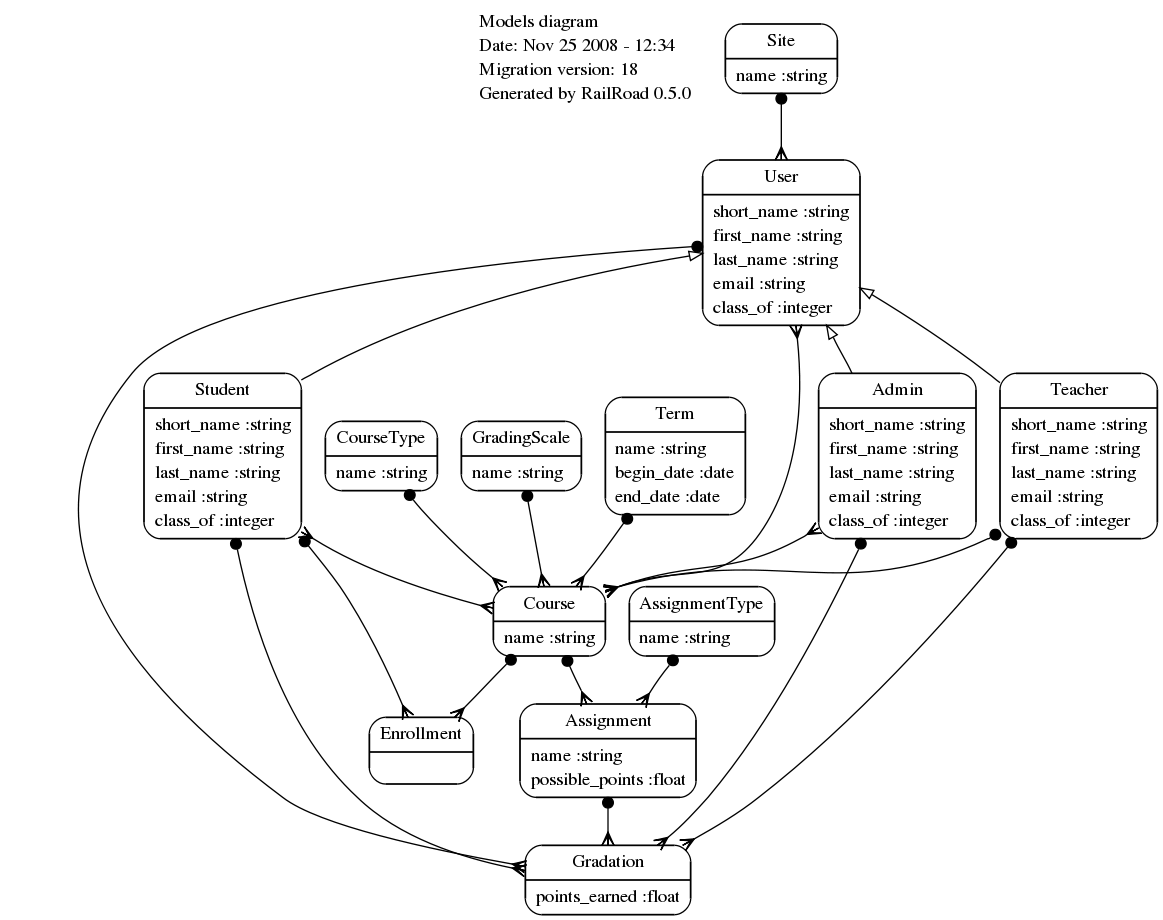
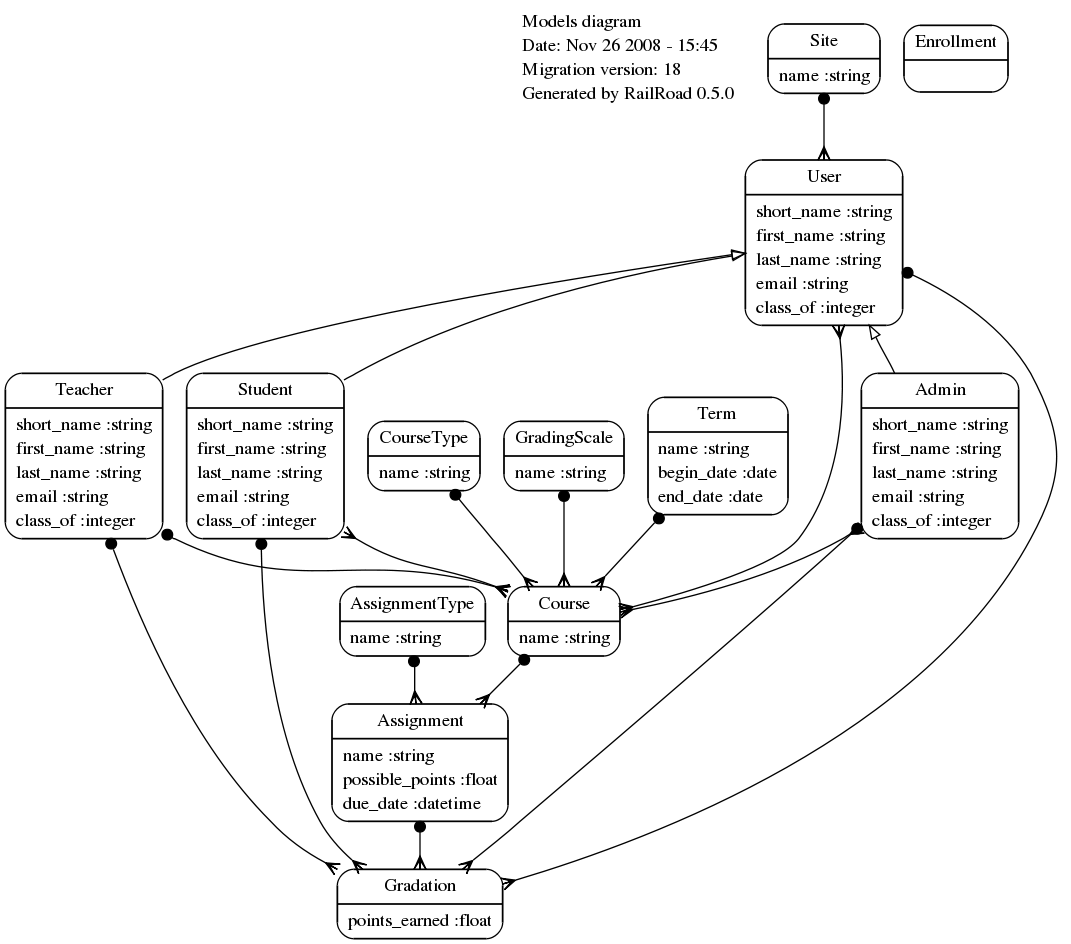
assignments mostly work

diff --git a/app/controllers/enrollments_controller.rb b/app/controllers/enrollments_controller.rb
@@ -1,30 +1,29 @@
 class EnrollmentsController < ApplicationController
 	layout "standard"
+
 	
-  # GET /enrollments
-  # GET /enrollments.xml
   def index
     @enrollments = Enrollment.find(:all)
-
+		@courses = Course.find_by_owner(:all, current_user)
+		
     respond_to do |format|
       format.html # index.html.erb
       format.xml  { render :xml => @enrollments }
     end
   end
 
-  # GET /enrollments/1
-  # GET /enrollments/1.xml
+
   def show
     @enrollment = Enrollment.find(params[:id])
-
+		@courses = Course.find_by_owner(:all, current_user)
+		
     respond_to do |format|
       format.html # show.html.erb
       format.xml  { render :xml => @enrollment }
     end
   end
 
-  # GET /enrollments/new
-  # GET /enrollments/new.xml
+
   def new
     @enrollment = Enrollment.new
 
@@ -34,13 +33,13 @@ class EnrollmentsController < ApplicationController
     end
   end
 
-  # GET /enrollments/1/edit
+
   def edit
     @enrollment = Enrollment.find(params[:id])
+		@courses = Course.find_by_owner(:all, current_user)
   end
 
-  # POST /enrollments
-  # POST /enrollments.xml
+
   def create
     @enrollment = Enrollment.new(params[:enrollment])
 

diff --git a/app/controllers/assignments_controller.rb b/app/controllers/assignments_controller.rb
@@ -4,6 +4,7 @@ class AssignmentsController < ApplicationController
 	
   def index
     @courses = Course.find_by_owner(:all, current_user)
+    @terms = Term.find(:all)
 
     respond_to do |format|
       format.html # index.html.erb
@@ -17,7 +18,7 @@ class AssignmentsController < ApplicationController
 													:conditions => { :course_id => params[:id]})
 
 	  respond_to do |format|
-	    format.html #{ redirect_to assignments_url } 					# Dont show an individual assignment
+	    format.html { redirect_to assignments_url } 					# Dont show an individual assignment
 	    format.js		{ render :partial => "assignment_list" }	# Render the list of assignments for a course
 	    format.xml  { render :xml => @assignment }						# default
 	  end
@@ -37,6 +38,7 @@ class AssignmentsController < ApplicationController
 
   def edit
     @assignment = Assignment.find(params[:id])
+    @courses = Course.find_by_owner(:all, current_user)
   end
 
 

diff --git a/app/models/assignment.rb b/app/models/assignment.rb
@@ -7,14 +7,15 @@ class Assignment < ActiveRecord::Base
 	validates_numericality_of	:possible_points
 	validates_presence_of			:possible_points
 	
-	validates_existence_of	:course
+	validates_existence_of		:course
+	
 	
 	def due_date_formated
 		due_date.strftime("%a %b %e, %Y") if due_date?
 	end
 	
 	def due_date_formated=(due_at_str)
-		self.due_date = Date.parse(due_at_str)
+		self.due_date = Date.parse(due_at_str) if due_date?
 	rescue ArgumentError
 		@due_date_invalid = true
 	end

diff --git a/app/models/course.rb b/app/models/course.rb
@@ -4,7 +4,7 @@ class Course < ActiveRecord::Base
 	belongs_to	:course_type
 	belongs_to	:grading_scale
 	has_many		:assignments
-	has_many		:enrollments
+	has_many		:students, :through => :enrollments
 	
 	validates_existence_of :teacher, :message => "%s wasn't found"
 	validates_existence_of :term

diff --git a/app/models/enrollment.rb b/app/models/enrollment.rb
@@ -4,4 +4,8 @@ class Enrollment < ActiveRecord::Base
 
 	validates_presence_of :student, :message => "is not in the database"
 	validates_presence_of :course, :message => "is not in the database"
+	
+	validates_existence_of	:course
+	validates_existence_of	:student
+	
 end

diff --git a/app/models/student.rb b/app/models/student.rb
@@ -1,5 +1,5 @@
 class Student < User
-	has_many	:enrollments
+	has_many	:courses, :through => :enrollments
 	
 	from_year = Time.now.year - 1
 	to_year = from_year + 10
